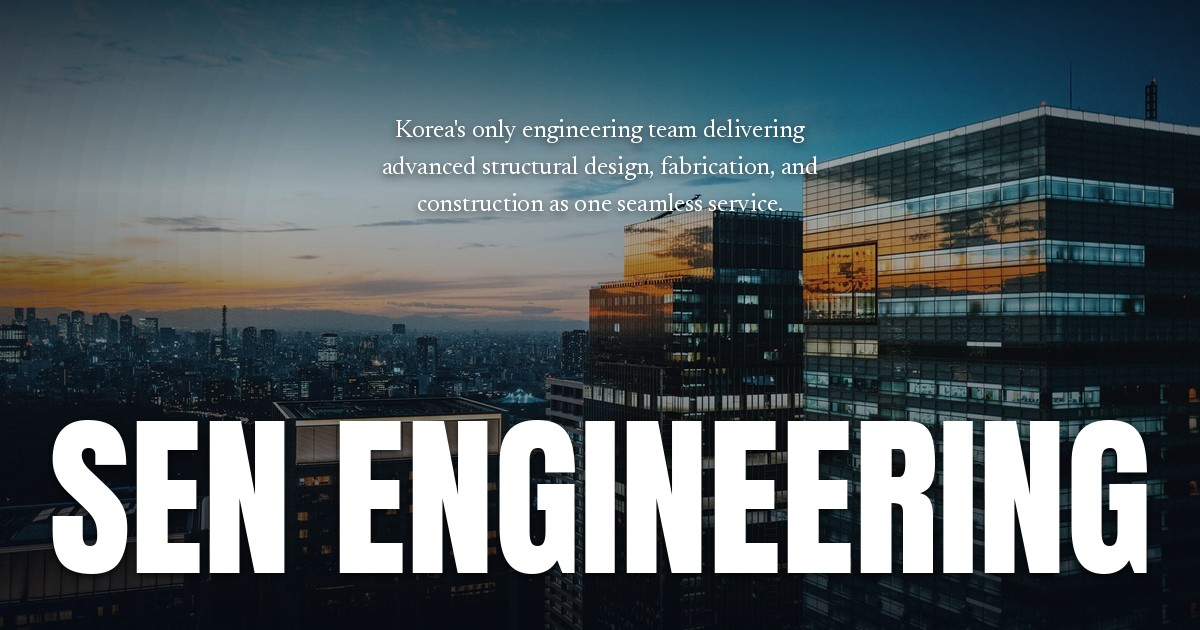
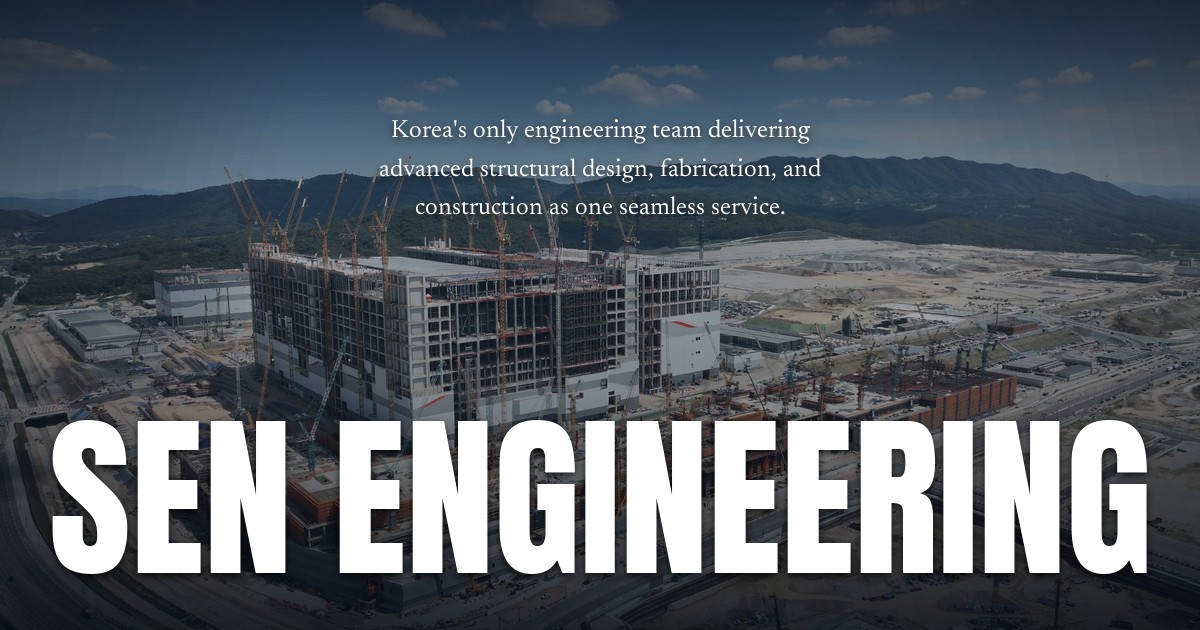
공유 썸네일이 예전 표지 사진에 멈춰 있던 문제 수정
make_og_cover.py가 "uploads/main/main_1.<확장자>"라는 정해진 파일명만
찾았는데, 표지 사진 관리 방식이 "아무 이름이나 올리고 파일명 앞 번호로
순서 정하기"로 바뀐 뒤 그 이름의 파일이 더 이상 없어 스크립트가 계속
조용히 실패하고 있었습니다 — 관리자가 표지 사진을 새로 올려도 공유
썸네일(assets/img/og-cover.jpg)은 예전 사진에 멈춰 있던 원인입니다.

compile_cover_photos.py/cover.js와 같은 자연 정렬 규칙으로 폴더를 직접
훑어 첫 번째 사진을 고르도록 고치고, 지금 실제 표지 사진(SK하이닉스
용인 반도체 클러스터 1기 FAB)으로 썸네일을 다시 만들었습니다.

diff --git a/index.html b/index.html
@@ -11,14 +11,14 @@
 <meta property="og:description" content="1973년부터 이어온 건축구조 원스톱 엔지니어링.">
 <!-- 표지 화면(사진+비전 문구+그룹명)을 합성해 만든 정적 썸네일입니다.
      크롤러는 JS를 실행하지 않아 실제 표지 화면을 그대로 가져올 수 없어서,
-     assets/img/og-cover.jpg?v=8caa118c 로 미리 만들어 둡니다. -->
-<meta property="og:image" content="https://github.senkuzo.com/assets/img/og-cover.jpg?v=8caa118c">
+     assets/img/og-cover.jpg?v=c417baed 로 미리 만들어 둡니다. -->
+<meta property="og:image" content="https://github.senkuzo.com/assets/img/og-cover.jpg?v=c417baed">
 <meta property="og:image:width" content="1200">
 <meta property="og:image:height" content="630">
 <meta name="twitter:card" content="summary_large_image">
 <meta name="twitter:title" content="Senkuzo / SEN Engineering Group">
 <meta name="twitter:description" content="1973년부터 이어온 건축구조 원스톱 엔지니어링.">
-<meta name="twitter:image" content="https://github.senkuzo.com/assets/img/og-cover.jpg?v=8caa118c">
+<meta name="twitter:image" content="https://github.senkuzo.com/assets/img/og-cover.jpg?v=c417baed">
 <link rel="icon" href="assets/img/favicon.png" type="image/png">
 
 <!-- 웹폰트 Noto Sans KR: 필요 없으면 아래 블록을 통째로 지우면 됩니다 (시스템 폰트로 자동 대체).

diff --git a/tools/make_og_cover.py b/tools/make_og_cover.py
@@ -29,9 +29,11 @@ HERE = os.path.dirname(os.path.abspath(__file__))
 ROOT = os.path.dirname(HERE)
 
 MAIN_DIR = os.path.join(ROOT, 'uploads', 'main')
-EXTS = ['png', 'jpg', 'jpeg', 'webp']   # cover.js 와 같은 순서로 찾습니다
+EXTS = ('.png', '.jpg', '.jpeg', '.webp', '.gif')   # compile_cover_photos.py 와 같은 확장자 목록
 OUT = os.path.join(ROOT, 'assets', 'img', 'og-cover.jpg')
 INDEX_HTML = os.path.join(ROOT, 'index.html')
+
+LEADING_NUM = re.compile(r'^\s*(\d+)')
 
 ANTON = os.path.join(ROOT, 'assets', 'fonts', 'Anton-Regular.ttf')
 NEWSREADER = os.path.join(ROOT, 'assets', 'fonts', 'Newsreader-Light.ttf')
@@ -42,11 +44,26 @@ BRAND_PAD = 46   # 실제 표지의 좌우 여백(clamp(20px,3.4vw,46px))과 같
 
 
 def find_cover_photo():
-    for ext in EXTS:
-        path = os.path.join(MAIN_DIR, 'main_1.' + ext)
-        if os.path.isfile(path):
-            return path
-    raise SystemExit('uploads/main/main_1.<png|jpg|jpeg|webp> 를 찾을 수 없습니다.')
+    """실제 표지 화면(cover.js)이 맨 처음 보여주는 사진과 똑같은 걸 고릅니다.
+    예전엔 "uploads/main/main_1.<확장자>"라는 정해진 파일명 하나만 찾았는데,
+    표지 사진 관리 방식이 "아무 이름이나 올리고 파일명 앞 번호로 순서만
+    정하기"(compile_cover_photos.py, assets/js/cover.js 참고)로 바뀐 뒤로는
+    그 이름의 파일이 더 이상 존재하지 않아 이 스크립트가 조용히 실패하고
+    있었습니다(og-cover.jpg가 예전 사진에 멈춰 있던 원인) — 같은 자연 정렬
+    규칙으로 폴더를 직접 훑어 첫 번째 사진을 고릅니다."""
+    if not os.path.isdir(MAIN_DIR):
+        raise SystemExit('uploads/main 폴더를 찾을 수 없습니다.')
+    names = [n for n in os.listdir(MAIN_DIR) if n.lower().endswith(EXTS)]
+    if not names:
+        raise SystemExit('uploads/main 안에 표지 사진이 없습니다.')
+
+    def sort_key(name):
+        m = LEADING_NUM.match(name)
+        num = int(m.group(1)) if m else float('inf')
+        return (num, name.lower())
+
+    names.sort(key=sort_key)
+    return os.path.join(MAIN_DIR, names[0])
 
 
 def load_vision_text():
